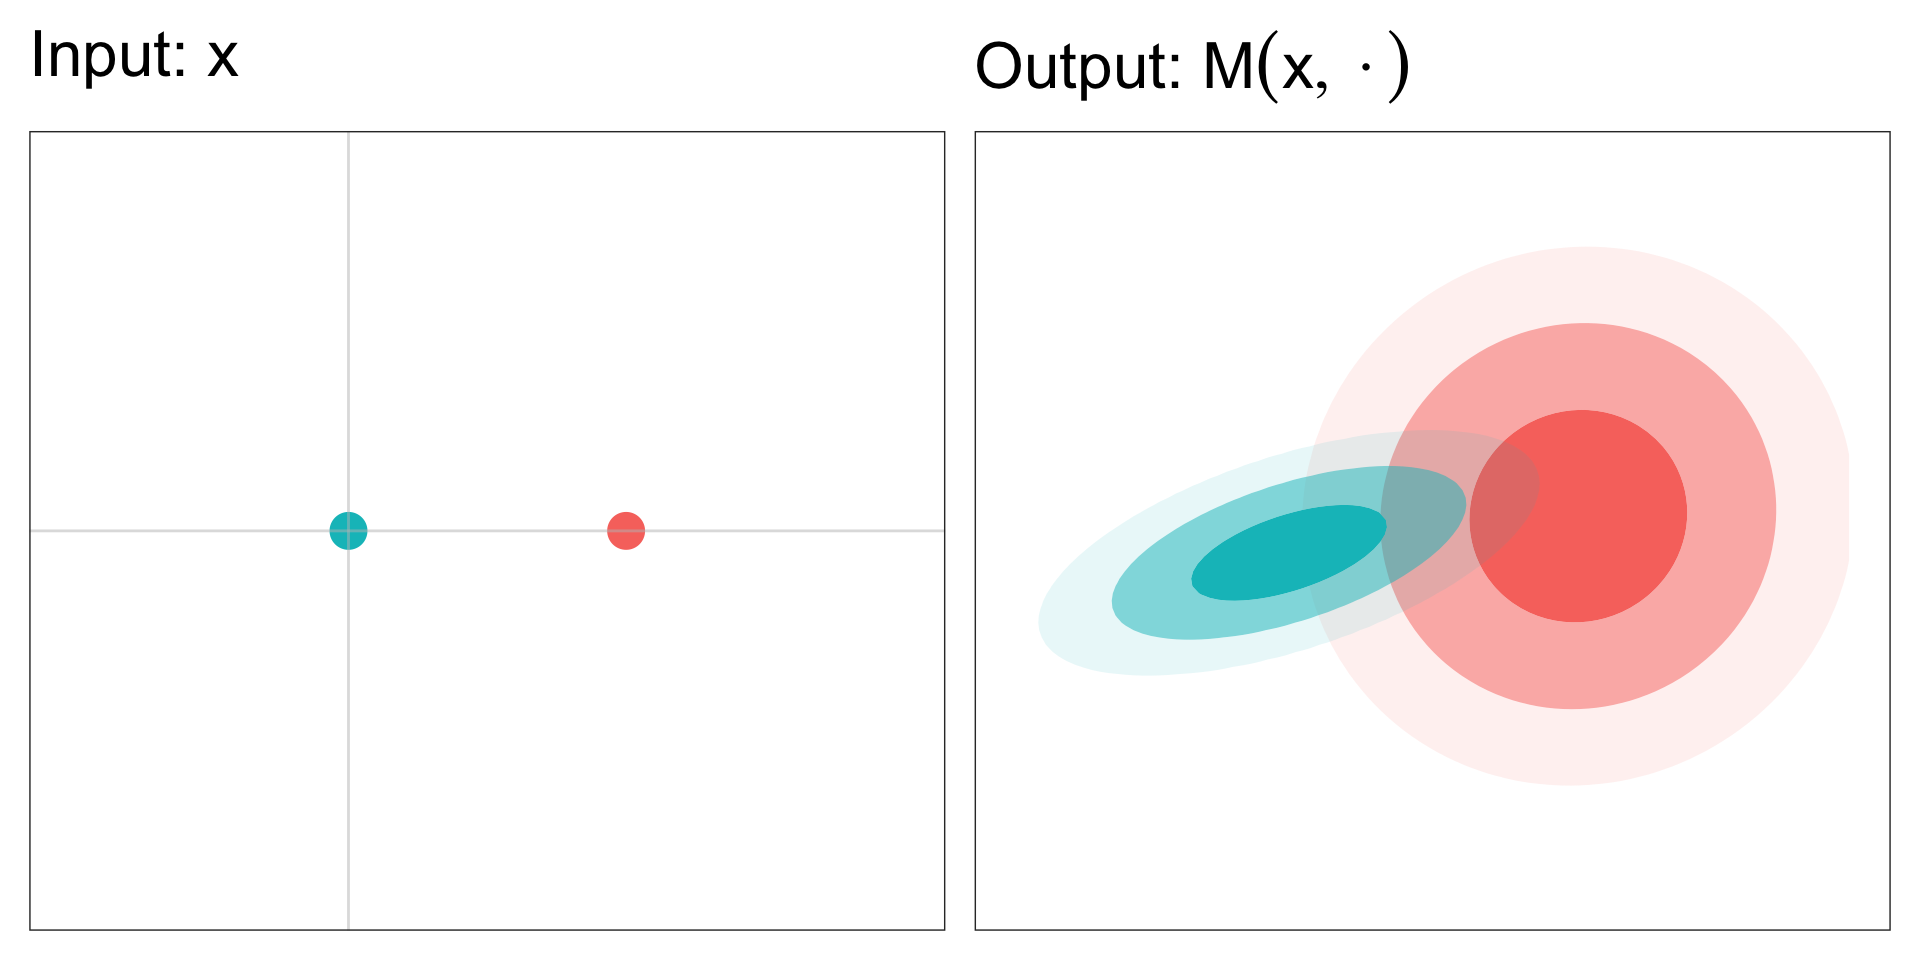
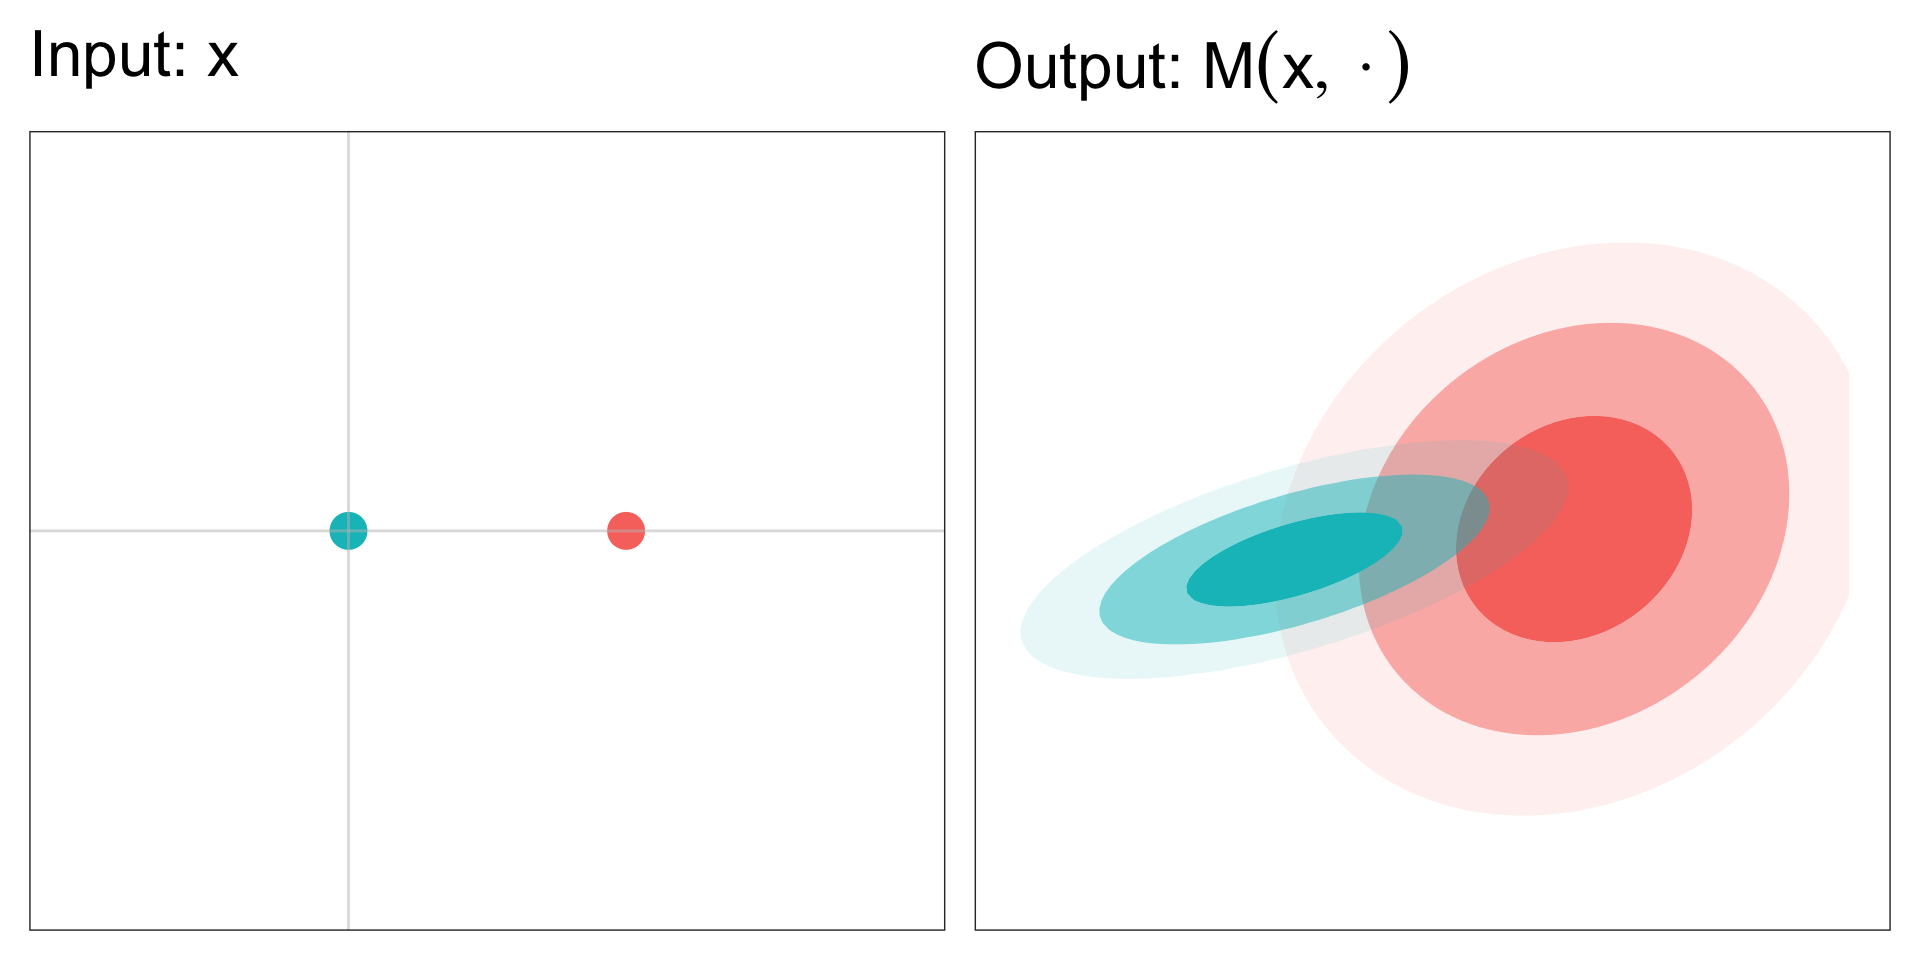
Added pictures

diff --git a/index.html b/index.html
@@ -183,8 +183,10 @@ Joshua J Bon
 </div>
 
 </section>
-<section id="todays-talksl" class="slide level2">
-<h2>Today’s talk<sup>1</sup></h2>
+<section id="todays-talk" class="slide level2">
+<h2>Today’s talk</h2>
+<div class="columns">
+<div class="column" style="width:65%;">
 <ol type="1">
 <li class="fragment">Differential privacy: <em>de facto</em></li>
 <li class="fragment">Privacy from the ground up: <em>semantics</em></li>
@@ -192,9 +194,12 @@ Joshua J Bon
 <li class="fragment">Differential privacy: <em>redux</em></li>
 <li class="fragment">Privacy without noise (?)</li>
 </ol>
+</div><div class="column" style="width:35%;">
+<p><img data-src="imgs/crossiant.jpg"></p>
+</div></div>
 <p>Bon, Bailie, Rousseau &amp; Robert (2026) <em>ICML 2026</em></p>
-<p><a href="https://arxiv.org/abs/2601.22945">arXiv 2601.22945</a></p>
-<aside><ol class="aside-footnotes"><li id="fn1"><p>Slides available https://bonstats.github.io/privacy26</p></li></ol></aside></section>
+<p><a href="https://arxiv.org/abs/2601.22945">arXiv 2601.22945</a> <a href="https://bonstats.github.io/privacy26">bonstats.github.io/privacy26</a></p>
+</section>
 <section>
 <section id="differential-privacy" class="title-slide slide level1 center">
 <h1>Differential privacy</h1>
@@ -347,7 +352,7 @@ Joshua J Bon
 <ul>
 <li class="fragment">Privacy definitions are systematically constructed from an <strong>agent-based game</strong></li>
 <li class="fragment">Game assumptions have real-world interpretations</li>
-<li class="fragment">Privacy definitions are easier to interpret, communicate and tailor</li>
+<li class="fragment">Privacy easier to interpret, communicate and tailor</li>
 </ul>
 </section>
 <section id="what-else-is-in-the-paper" class="slide level2">
@@ -700,7 +705,7 @@ d^{Q_T} \in \arg\inf_{d \in \mathcal{D}} \mathbb{E}_{z \sim Q_T}[ \rho(d,z)]
 <li class="fragment">A “privacy score”</li>
 </ul></li>
 </ul>
-<aside><ol class="aside-footnotes"><li id="fn2"><p><span class="citation" data-cites="grunwald2004game">Grünwald and Dawid (<a href="#/references" role="doc-biblioref" onclick="">2004</a>)</span></p></li></ol></aside></section>
+<aside><ol class="aside-footnotes"><li id="fn1"><p><span class="citation" data-cites="grunwald2004game">Grünwald and Dawid (<a href="#/references" role="doc-biblioref" onclick="">2004</a>)</span></p></li></ol></aside></section>
 <section id="measuring-privacy-1" class="slide level2">
 <h2>Measuring privacy</h2>
 <div class="callout callout-note callout-titled callout-style-default">
@@ -986,12 +991,16 @@ In addition, it is *strictly* proper if $S(P,P) = S(P,Q) \Leftrightarrow P = Q$.
 </ul></li>
 <li class="fragment">Established that privacy guarantees possible for deterministic algorithms</li>
 </ul>
-</section></section>
-<section id="thank-you" class="title-slide slide level1 center">
-<h1>Thank you!</h1>
-
 </section>
-
+<section id="thank-you" class="slide level2">
+<h2>Thank you!</h2>
+<div class="columns">
+<div class="column" style="width:50%;">
+<p><img data-src="imgs/boat-view.jpg"></p>
+</div><div class="column" style="width:50%;">
+<p><img data-src="imgs/sea-legs.jpg"></p>
+</div></div>
+</section></section>
 <section>
 <section id="appendix" class="title-slide slide level1 center">
 <h1>Appendix</h1>